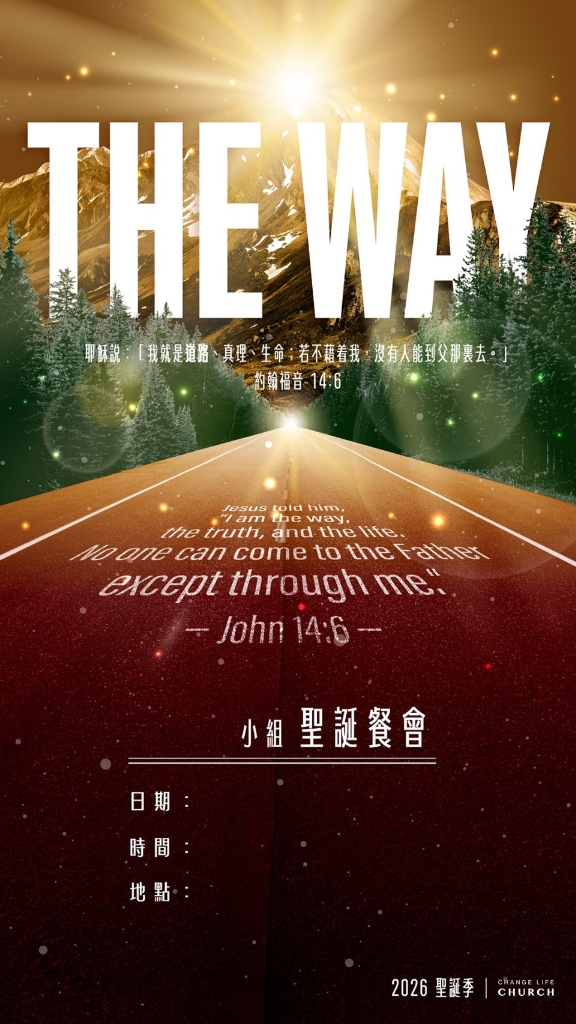
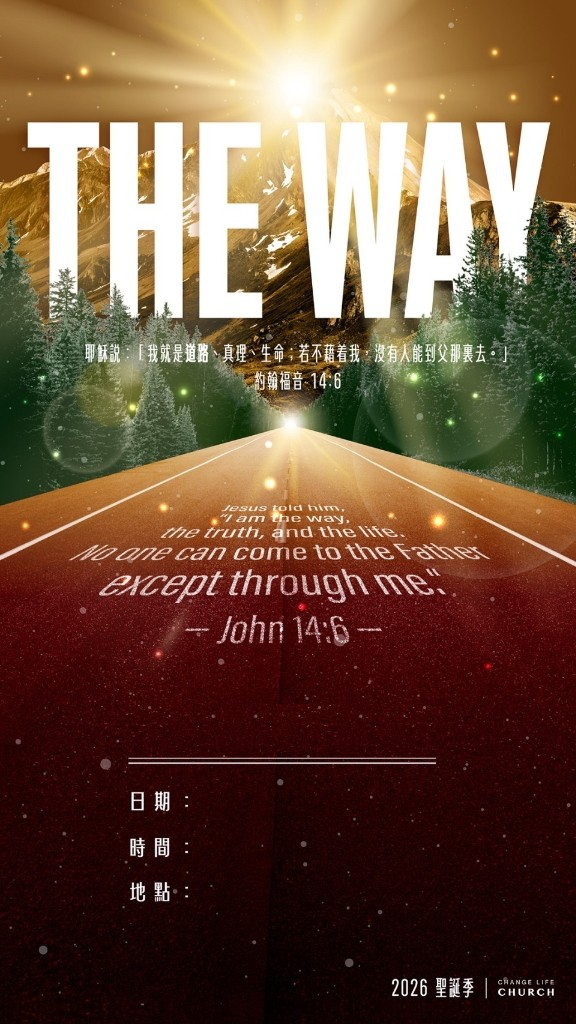
Add files via upload

Changed region(s): [[0.4062, 0.6875, 0.75, 0.75]]

diff --git a/index.html b/index.html
@@ -211,30 +211,36 @@
       display: block;
     }
 
-    /* Dynamic text overlays positioned to match the poster blanks - supports 1 or multiple groups */
+    /* Dynamic two-line centered title positioned above the poster's double line */
     .poster-overlay-group {
       position: absolute;
-      top: 68.7%;
-      left: 3.5%;
-      width: 37.8%;
-      height: 4.5%;
+      top: 65.2%;
+      left: 13.9%;
+      width: 70%;
+      height: 8.6%;
       display: flex;
+      flex-direction: column;
       align-items: center;
-      justify-content: flex-end;
-      padding-right: 4px;
+      justify-content: center;
+      gap: 2px;
       color: #ffffff;
       font-family: 'Noto Sans TC', sans-serif;
-      font-weight: 700;
-      font-size: clamp(0.95rem, 2.3vw, 1.32rem);
-      letter-spacing: 0.04em;
-      text-shadow: 0 2px 8px rgba(0, 0, 0, 0.85);
+      text-shadow: 0 2px 8px rgba(0, 0, 0, 0.88);
+      text-align: center;
       white-space: nowrap;
-      overflow: visible;
+      line-height: 1.22;
     }
 
-    .poster-overlay-group.multi-group {
-      font-size: clamp(0.82rem, 1.85vw, 1.06rem);
-      letter-spacing: 0.01em;
+    .poster-overlay-group .poster-line1 {
+      font-weight: 700;
+      font-size: clamp(1.02rem, 2.4vw, 1.34rem);
+      letter-spacing: 0.08em;
+    }
+
+    .poster-overlay-group .poster-line2 {
+      font-weight: 900;
+      font-size: clamp(1.18rem, 2.85vw, 1.58rem);
+      letter-spacing: 0.1em;
     }
 
     .poster-overlay-field {
@@ -710,10 +716,13 @@
       <aside class="poster-panel">
         <div class="poster-stage" id="posterStage">
           <img id="posterImg" src="poster.jpg" alt="THE WAY 2026 聖誕季 小組聖誕餐會海報" crossorigin="anonymous" />
-          <div class="poster-overlay-group multi-group" id="posterGroupText">基明、榮雄</div>
-          <div class="poster-overlay-field poster-overlay-date" id="posterDateText">2026/12/19 (六)</div>
-          <div class="poster-overlay-field poster-overlay-time" id="posterTimeText">18:30 入席（19:00 開始）</div>
-          <div class="poster-overlay-field poster-overlay-location" id="posterLocationText">CHANGE LIFE CHURCH 交誼廳</div>
+          <div class="poster-overlay-group" id="posterGroupText">
+            <div class="poster-line1" id="posterGroupLine1">基明、榮雄小組</div>
+            <div class="poster-line2" id="posterGroupLine2">聖誕福音餐會</div>
+          </div>
+          <div class="poster-overlay-field poster-overlay-date" id="posterDateText">2026/12/13(日)</div>
+          <div class="poster-overlay-field poster-overlay-time" id="posterTimeText">12:00~14:00(11:45入場)</div>
+          <div class="poster-overlay-field poster-overlay-location" id="posterLocationText">江子翠行道會副堂 新北市板橋區文化路二段282號3樓</div>
         </div>
 
         <div class="poster-actions">
@@ -971,13 +980,13 @@
     // ============================================================================
     const DEFAULT_EVENT_CONFIG = {
       groupPrefix: '基明、榮雄',
-      date: '2026/12/19 (六)',
-      time: '18:30 入席（19:00 開始）',
-      location: 'CHANGE LIFE CHURCH 交誼廳',
+      date: '2026/12/13(日)',
+      time: '12:00~14:00(11:45入場)',
+      location: '江子翠行道會副堂 新北市板橋區文化路二段282號3樓',
       googleScriptUrl: '' // 貼上部署好的 Google Apps Script 網址即可全自動同步
     };
 
-    const STORAGE_KEY_CFG = 'the_way_2026_config_v3';
+    const STORAGE_KEY_CFG = 'the_way_2026_config_v4';
     const STORAGE_KEY_ROWS = 'the_way_2026_registrations_v2';
 
     let eventConfig = loadConfig();
@@ -986,11 +995,12 @@
     function loadConfig() {
       try {
         const raw = localStorage.getItem(STORAGE_KEY_CFG);
-        if (!raw) return { ...DEFAULT_EVENT_CONFIG };
-        const parsed = JSON.parse(raw);
-        if (!parsed.groupPrefix || parsed.groupPrefix === '恩典' || parsed.groupPrefix === '榮雄') {
-          parsed.groupPrefix = '基明、榮雄';
+        if (!raw) {
+          const prevRaw = localStorage.getItem('the_way_2026_config_v3');
+          const prevUrl = prevRaw ? (JSON.parse(prevRaw).googleScriptUrl || '') : '';
+          return { ...DEFAULT_EVENT_CONFIG, googleScriptUrl: prevUrl };
         }
+        const parsed = JSON.parse(raw);
         return { ...DEFAULT_EVENT_CONFIG, ...parsed };
       } catch (e) {
         return { ...DEFAULT_EVENT_CONFIG };
@@ -1027,9 +1037,10 @@
       const memberGrpLabel = document.getElementById('statMemberGroupLabel');
       if (memberGrpLabel) memberGrpLabel.textContent = `${grp}小組`;
 
-      const posterGroupEl = document.getElementById('posterGroupText');
-      posterGroupEl.textContent = grp;
-      posterGroupEl.classList.toggle('multi-group', grp.length > 2);
+      const line1El = document.getElementById('posterGroupLine1');
+      if (line1El) line1El.textContent = `${grp}小組`;
+      const line2El = document.getElementById('posterGroupLine2');
+      if (line2El) line2El.textContent = '聖誕福音餐會';
 
       document.getElementById('posterDateText').textContent = eventConfig.date || '';
       document.getElementById('posterTimeText').textContent = eventConfig.time || '';
@@ -1439,13 +1450,16 @@
       ctx.shadowBlur = 6;
       ctx.shadowOffsetY = 2;
 
-      // 1. Group Prefix right-aligned before "小組 聖誕餐會"
-      const grpText = eventConfig.groupPrefix || '';
-      const fontSize = grpText.length > 3 ? 21 : 26;
-      ctx.font = `700 ${fontSize}px "Noto Sans TC", sans-serif`;
-      ctx.textAlign = 'right';
+      // 1. Two-line centered title above the double horizontal line:
+      //    Line 1: 基明、榮雄小組
+      //    Line 2: 聖誕福音餐會
+      const grpText = (eventConfig.groupPrefix || '基明、榮雄').trim().replace(/小組$/, '');
+      ctx.textAlign = 'center';
       ctx.textBaseline = 'middle';
-      ctx.fillText(grpText, w * 0.410, h * 0.713);
+      ctx.font = '700 24px "Noto Sans TC", sans-serif';
+      ctx.fillText(`${grpText}小組`, w * 0.489, h * 0.678);
+      ctx.font = '900 30px "Noto Sans TC", sans-serif';
+      ctx.fillText('聖誕福音餐會', w * 0.489, h * 0.715);
 
       // 2. Date, Time, Location left-aligned after colons
       ctx.font = '600 19px "Noto Sans TC", sans-serif';
